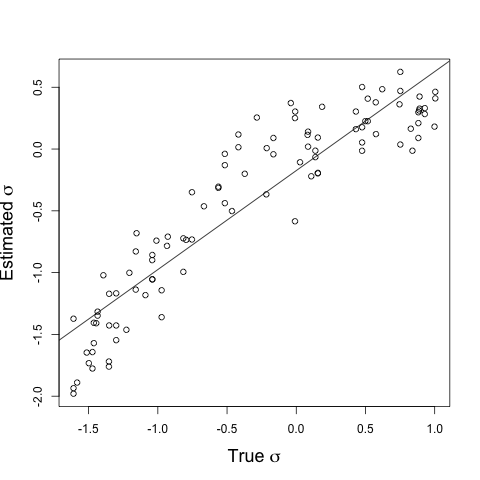
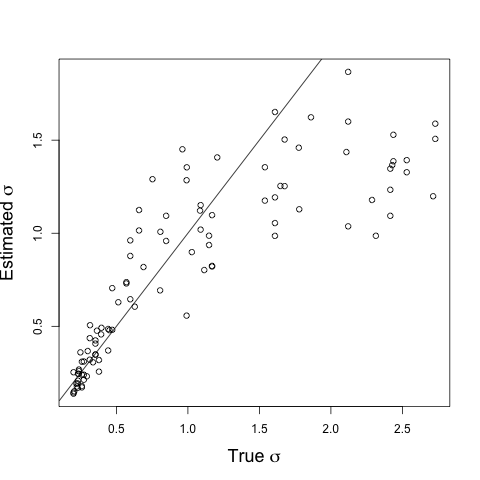
docs

diff --git a/docs/source/vignette.rst b/docs/source/vignette.rst
@@ -199,9 +199,9 @@ Next, we will validate the trained model on simulated test data. In a real appli
    :scale: 100 %
    :alt: results_plot
 
-   Validation results. True :math:`\sigma` is on the x-axis and predicted values are on the y-axis.
+   Validation results. True :math:`\sigma` is on the x-axis and predicted values are on the y-axis. The dashed line is :math:`x=y`.
 		       
-The results show that the training run went well: specifically, the predictions fell close to the expected values, meaning there is some signal coming through.
+The results show that the training run was successful. Specifically, the predictions are near the expected values, meaning there is some signal for dispersal rate. However, we are currently underestimating towards the larger end of the :math:`\sigma` range. This might be alleviated by using (i) a larger training set, (ii) more generatinos spatial, (iii) larger sample size, or (iv) or more SNPs.
 
 
 
